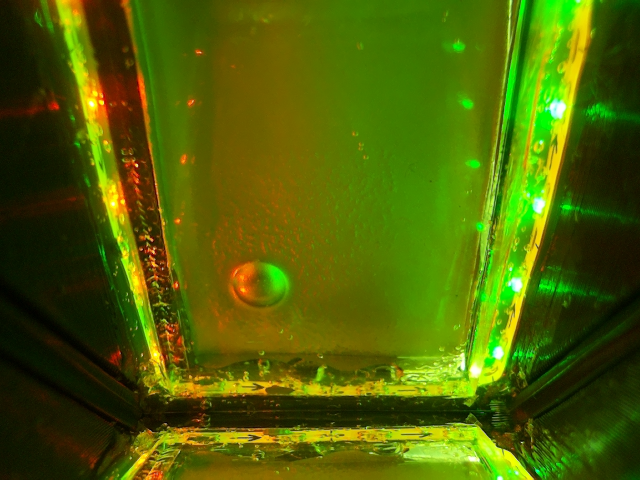
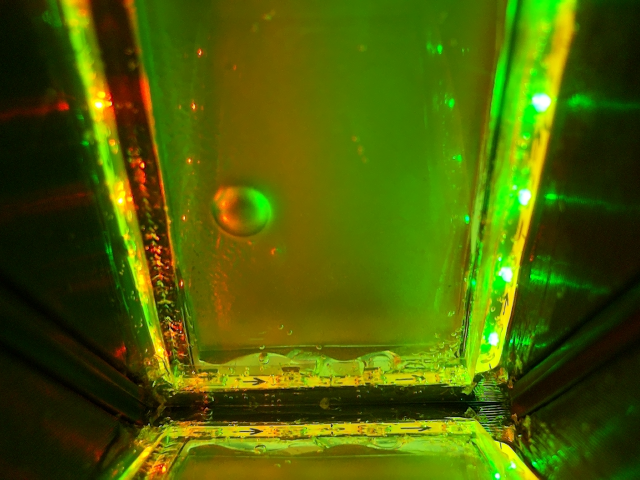
transform

diff --git a/PerspectiveTransform.py b/PerspectiveTransform.py
@@ -23,15 +23,15 @@ def cal_perspective_params(img, points):
     
     return M, warped_img
 # 计算透视变换参数矩阵
-input_folder = './imprint/al_calib/'
-output_folder = './imprint/al_calib/cropped/'
+input_folder = './imprint/al/'
+output_folder = './imprint/al/transform/'
 # 確保輸出資料夾存在
 if not os.path.exists(output_folder):
     os.makedirs(output_folder)
 # 取得所有 PNG 圖片檔案
 image_paths = sorted(glob.glob(os.path.join(input_folder, '*.png')))
 # 定義透視變換的四個點
-points = np.array([(127, 15), (495, 8), (438, 346), (189, 348)])
+points = np.array([(136, 0), (508, 0), (457, 345), (203, 348)])
 for img_path in image_paths:
     img = cv2.imread(img_path)
     if img is None:
@@ -49,39 +49,3 @@ for img_path in image_paths:
     cv2.waitKey(1000)  
 cv2.destroyAllWindows()
 ######################################
-# import cv2
-# import numpy as np
-
-# # 讀取圖像
-# image = cv2.imread('./calibration/img0_transform.png')
-# gray = cv2.cvtColor(image, cv2.COLOR_BGR2GRAY)
-
-# # 進行二值化處理
-# _, thresh = cv2.threshold(gray, 50, 255, cv2.THRESH_BINARY)
-
-# # 找輪廓
-# contours, _ = cv2.findContours(thresh, cv2.RETR_EXTERNAL, cv2.CHAIN_APPROX_SIMPLE)
-# cv2.drawContours(gray, contours, -1, (0, 255, 0), 2)
-# # 顯示結果
-# cv2.imshow('Contours', gray)
-# # 遍歷輪廓，找出接近梯形的形狀
-# for cnt in contours:
-#     # 近似多邊形
-#     epsilon = 0.02 * cv2.arcLength(cnt, True)
-#     approx = cv2.approxPolyDP(cnt, epsilon, True)
-
-#     # 如果找到四個點，則可能是梯形
-#     if len(approx) == 4:
-#         # 畫出梯形
-#         cv2.drawContours(image, [approx], -1, (0, 255, 0), 3)
-
-#         # 印出四個點的座標
-#         for i, point in enumerate(approx):
-#             x, y = point[0]
-#             print(f"Point {i + 1}: ({x}, {y})")
-#             cv2.circle(image, (x, y), 5, (0, 0, 255), -1)
-
-# # 顯示結果
-# cv2.imshow('Detected Rectangles', image)
-# cv2.waitKey(0)
-# cv2.destroyAllWindows()

diff --git a/test.py b/test.py
@@ -13,33 +13,33 @@ picam2.set_controls({"AfMode": 0, "LensPosition": 1.0})  # 固定焦距到 1/10m
 #picam2.set_controls({"AwbEnable": False, "ColourGains": (1.5, 1.0)})  # 1.7/0.7關掉白平衡，調整  Gain 值
 #picam2.set_controls({"ExposureValue": -0.5})  # +1 EV 提高亮度
 picam2.start()
-camera_matrix = np.load("./camera_matrix_real.npy")
-dist_coeffs = np.load("./dist_coeff_real.npy")
 
 def showRealtimeImage(frame_name):
-    base_count = 58
-    base_path = "./calibration/fixed_cam/"
+    base_count = 0
+    base_path = "./transform/"
 
     while True:
-        frame = picam2.capture_array()
-
+        request = picam2.capture_request()  # 這樣影像會經過 Raspberry Pi 內建校正
+        frame = request.make_array("main")  # 轉換為 NumPy 陣列
+        request.release()  # 釋放請求，避免佔用相機資源
+        #frame = picam2.capture_array()
         # 修正色彩空間（RGB -> BGR）
         frame_bgr = cv2.cvtColor(frame, cv2.COLOR_RGB2BGR)
         flipped_frame = cv2.flip(frame_bgr,0)
-        flipped_frame = cv2.undistort(flipped_frame, camera_matrix, dist_coeffs)
+    
         cv2.imshow(frame_name, flipped_frame)
         
         key = cv2.waitKey(1)
         if key == ord('q'):
             break
         elif key == ord('b'):
-            img_name = os.path.join(base_path, f"img{base_count}.png")
+            img_name = os.path.join(base_path, f"img{base_count}_transform.png")
             cv2.imwrite(img_name, flipped_frame)
             base_count += 1
 
 def getFrame(frame_name):
     frame = picam2.capture_array()
-    # frame = cv2.undistort(frame, camera_matrix, dist_coeffs)
+   
      # 修正色彩空間（RGB -> BGR）
     frame_bgr = cv2.cvtColor(frame, cv2.COLOR_RGB2BGR)
     flipped_frame = cv2.flip(frame_bgr,0)

diff --git a/calibration.py b/calibration.py
@@ -10,7 +10,7 @@ objp[:,:2] = np.mgrid[0:chessboard[0],0:chessboard[1]].T.reshape(-1,2)
 # Arrays to store object points and image points from all the images.
 objpoints = [] # 3d point in real world space
 imgpoints = [] # 2d points in image plane.
-images = glob.glob('./calibration/fixed_cam/*.png')
+images = glob.glob('./calibration/fixed_cam2/*.png')
 for fname in images:
     img = cv.imread(fname)
     gray = cv.cvtColor(img, cv.COLOR_BGR2GRAY)
@@ -37,13 +37,13 @@ ret, mtx, dist, rvecs, tvecs = cv.calibrateCamera(objpoints, imgpoints, (w, h), 
 print('mtx: ',mtx)
 print('dist: ',dist)
 # save calibration results
-np.save('camera_matrix_real.npy', mtx)
-np.save('dist_coeff_real.npy', dist)
+#np.save('camera_matrix_real.npy', mtx)
+#np.save('dist_coeff_real.npy', dist)
 
 newcameramtx, roi = cv.getOptimalNewCameraMatrix(mtx, dist, (w, h), 0.9, (w, h))
 
 # 讀取待校正的圖像
-img = cv.imread('./calibration/fixed_cam/img5.png')
+img = cv.imread('./calibration/fixed_cam2/img5.png')
 dst = cv.undistort(img, mtx, dist, None, newcameramtx)
 mean_error = 0
 for i in range(len(objpoints)):
@@ -52,5 +52,5 @@ for i in range(len(objpoints)):
     mean_error += error
 print(f"Reprojection Error: {mean_error / len(objpoints)}")
 
-cv.imwrite("calibresult.png", dst)
+cv.imwrite("calibresult_cam.png", dst)
 print("Calibration completed successfully. Output saved as calibresult.png")

diff --git a/get_imprint.py b/get_imprint.py
@@ -13,23 +13,22 @@ picam2.set_controls({"AfMode": 0, "LensPosition": 1.0})  # 固定焦距到 1/10m
 picam2.set_controls({"AwbEnable": False, "ColourGains": (1.5, 1.0)})  # 1.7/0.7關掉白平衡，調整  Gain 值
 picam2.set_controls({"ExposureValue": -0.5})  # +1 EV 提高亮度
 picam2.start()
-# 加載相機內部參數和畸變參數
-camera_matrix = np.load("./camera_matrix_real.npy")
-dist_coeff = np.load("./dist_coeff_real.npy")
+
 
 def showRealtimeImage(frame_name):
     base_count = 0
-    base_path = "./imprint/al_calib/"
+    base_path = "./imprint/al/"
     
     
     while True:
-        frame = picam2.capture_array()
+        request = picam2.capture_request()  # 這樣影像會經過 Raspberry Pi 內建校正
+        frame = request.make_array("main")  # 轉換為 NumPy 陣列
+        request.release()  # 釋放請求，避免佔用相機資源
         # 修正色彩空間（RGB -> BGR）
-        h, w = frame.shape[:2]
-        newcameramtx, roi = cv2.getOptimalNewCameraMatrix(camera_matrix, dist_coeff, (w, h), 0.9, (w, h))
+   
         frame_bgr = cv2.cvtColor(frame, cv2.COLOR_RGB2BGR)
         flipped_frame = cv2.flip(frame_bgr,0)
-        flipped_frame = cv2.undistort(flipped_frame, camera_matrix, dist_coeff, None, newcameramtx)
+       
         cv2.imshow(frame_name, flipped_frame)
         
         key = cv2.waitKey(1)

diff --git a/transform_findxy.py b/transform_findxy.py
@@ -1,0 +1,37 @@
+
+import cv2
+import numpy as np
+
+# 讀取圖像
+image = cv2.imread('./transform/img0_transform.png')
+gray = cv2.cvtColor(image, cv2.COLOR_BGR2GRAY)
+
+# 進行二值化處理
+_, thresh = cv2.threshold(gray, 50, 255, cv2.THRESH_BINARY)
+
+# 找輪廓
+contours, _ = cv2.findContours(thresh, cv2.RETR_EXTERNAL, cv2.CHAIN_APPROX_SIMPLE)
+cv2.drawContours(gray, contours, -1, (0, 255, 0), 2)
+# 顯示結果
+cv2.imshow('Contours', gray)
+# 遍歷輪廓，找出接近梯形的形狀
+for cnt in contours:
+    # 近似多邊形
+    epsilon = 0.02 * cv2.arcLength(cnt, True)
+    approx = cv2.approxPolyDP(cnt, epsilon, True)
+
+    # 如果找到四個點，則可能是梯形
+    if len(approx) == 4:
+        # 畫出梯形
+        cv2.drawContours(image, [approx], -1, (0, 255, 0), 3)
+
+        # 印出四個點的座標
+        for i, point in enumerate(approx):
+            x, y = point[0]
+            print(f"Point {i + 1}: ({x}, {y})")
+            cv2.circle(image, (x, y), 5, (0, 0, 255), -1)
+
+# 顯示結果
+cv2.imshow('Detected Rectangles', image)
+cv2.waitKey(0)
+cv2.destroyAllWindows()
